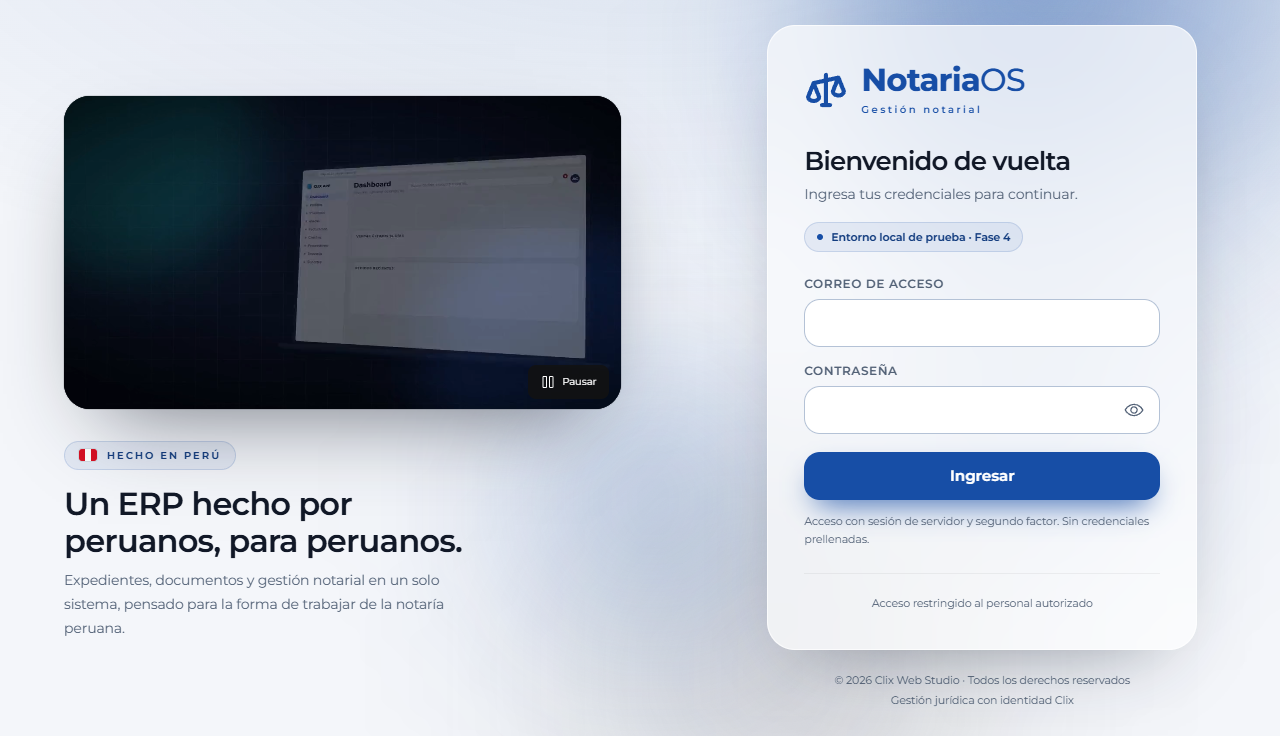
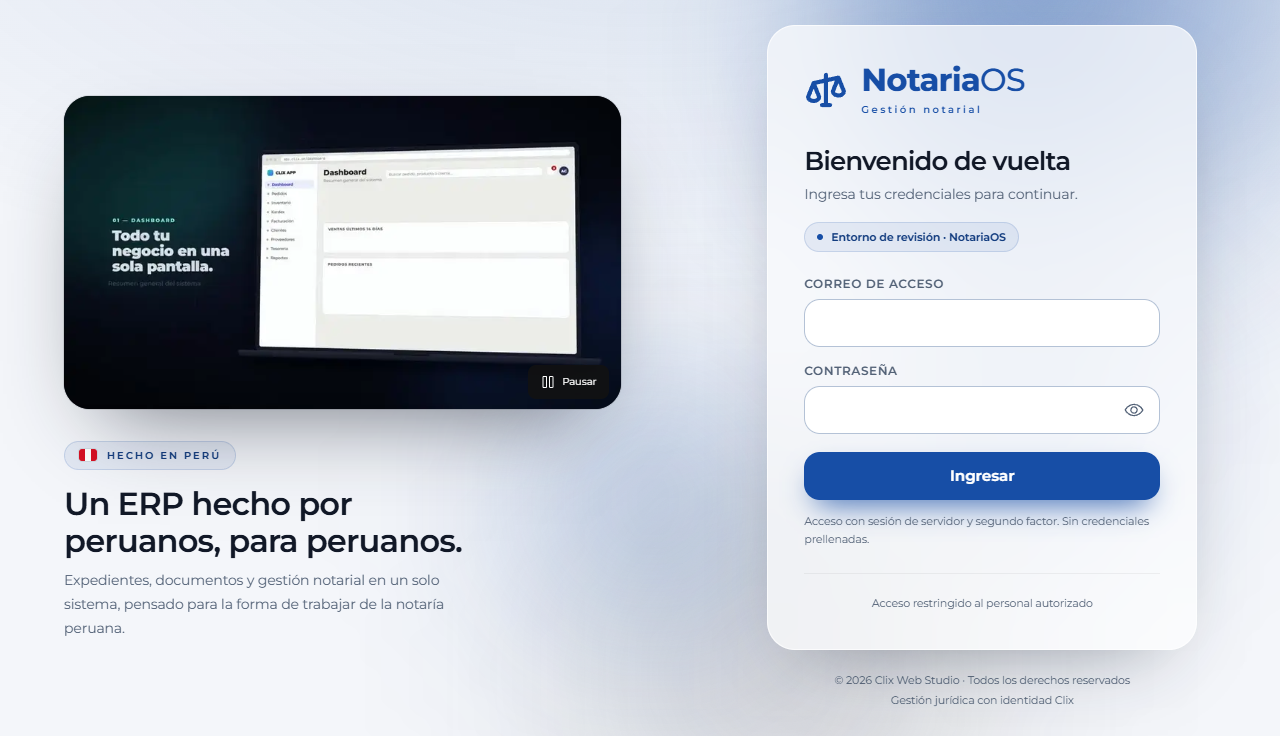
Record verified cloud release and final service state

Changed region(s): [[0.0625, 0.1875, 0.4688, 0.5], [0.6875, 0.3125, 0.8125, 0.3438]]

diff --git a/MEMORY.md b/MEMORY.md
@@ -235,3 +235,5 @@ Evidencia finalfase5:127 fuentes SHA-256 y261 enlaces locales comprobados,0 roto
 Cierre documentalfase6:142fuentes SHA-256; enlaces locales verificados en fase-6-documentacion.json,0rotos. Solo cinco fuentes anteriores modificadas; sin cambios de reglas económicas/fiscales/PLAFT/procedimiento.
 
 Cierre de pruebas cloud:8enfocadas PostgreSQL correctas (38.9s),0fallos/omitidas/reintentos; JSONdeploy-neon-focused. Preservados2intentos de aserciones/contrato, sin cambios al dominio. HTTPS/login inicial/bloqueoTOTP/bootstrap403 verificados. Producción1staff,0personas/casos/documentos/cuentasQA y11migraciones. Las claves de gestión solo se utilizaron para el despliegue autorizado y no están enGit niVercelruntime. `.env.access.local` conserva la contraseña inicial únicamente en el equipo del usuario; ignorado porGit. QAservidor3101 detenido. Ver evidencia de despliegue para revisión exacta y estado de cierre.
+
+Cierre publicado: código be6836343e8e44f91dd928c2fc38011d5ea83c68 verificado enVercel READY/dpl_wRbS6RdybfuMJTpVct8A89W6DyJ2. HTTPS/login/TOTPgate comprobados sobre esa revisión. GitHubmain sincronizado. Revisiónlocal3100 reabierta, sesión60384/Windows24328, baseprincipal original; no abrir desde scripts mientras esté activa. QAservidor3101 detenido. Las adiciones de evidencia posteriores solo documentan el código verificado.

diff --git a/docs/evidence/deploy-vercel-neon.md b/docs/evidence/deploy-vercel-neon.md
@@ -35,3 +35,5 @@ La API Neon creó inicialmente roles con membresía elevada. La inspección SQL 
 ## Límites conservados
 
 Sin RENIEC/lector, firma criptográfica, presentación SUNARP, CDR verificado, emisión SUNAT o formato oficialSBS/OCP. Publicación de revisión no acredita operación notarial, seguridad externa, carga, recuperaciónNeon/RPO/RTO o políticas jurídicas. Archivos menores a4MB enVercel por límite de peticiones. No se ejecutaron scripts sobre `.notaria/` activa ni se crearon cuentasQA en ella. Las pruebas de nube usan la ramaNeon QA; PostgreSQL admite sus conexiones independientes sin compartir una carpetaPGlite.
+
+Cierre de código verificado: be6836343e8e44f91dd928c2fc38011d5ea83c68, Vercel READY/dpl_wRbS6RdybfuMJTpVct8A89W6DyJ2. Revisión HTTPS/login repetida sobre esa versión con etiquetas de revisión actualizadas. QA3101 detenida; revisión local3100 reabierta con su base original, Windows24328/sesión60384. La actualización documental posterior no cambia el código de aplicación.
